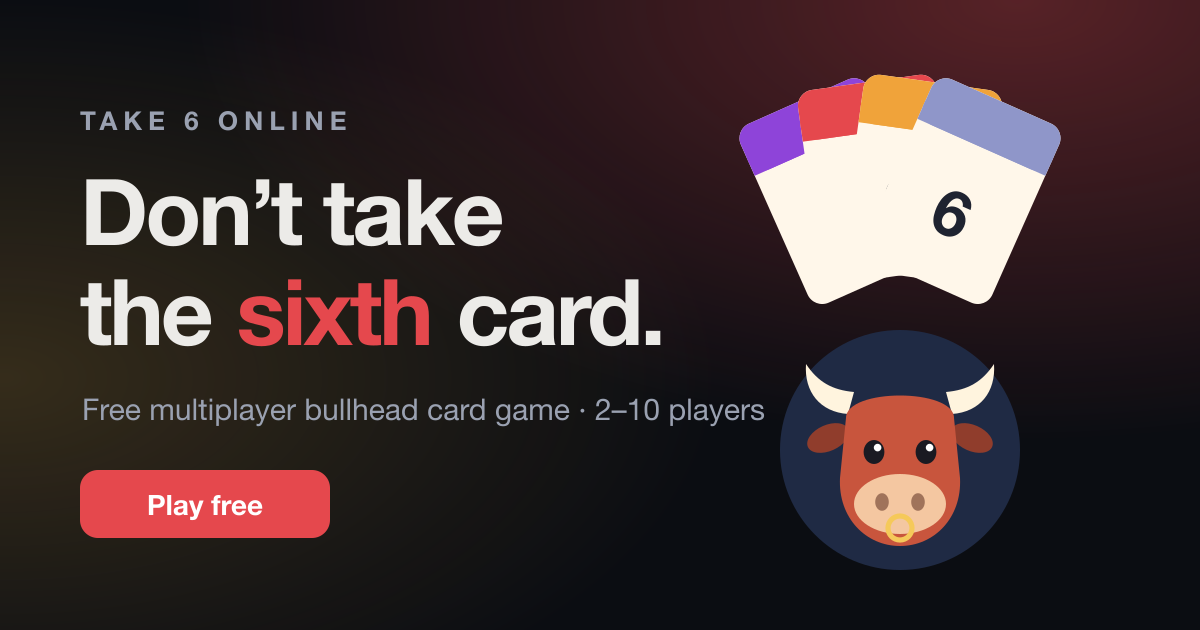
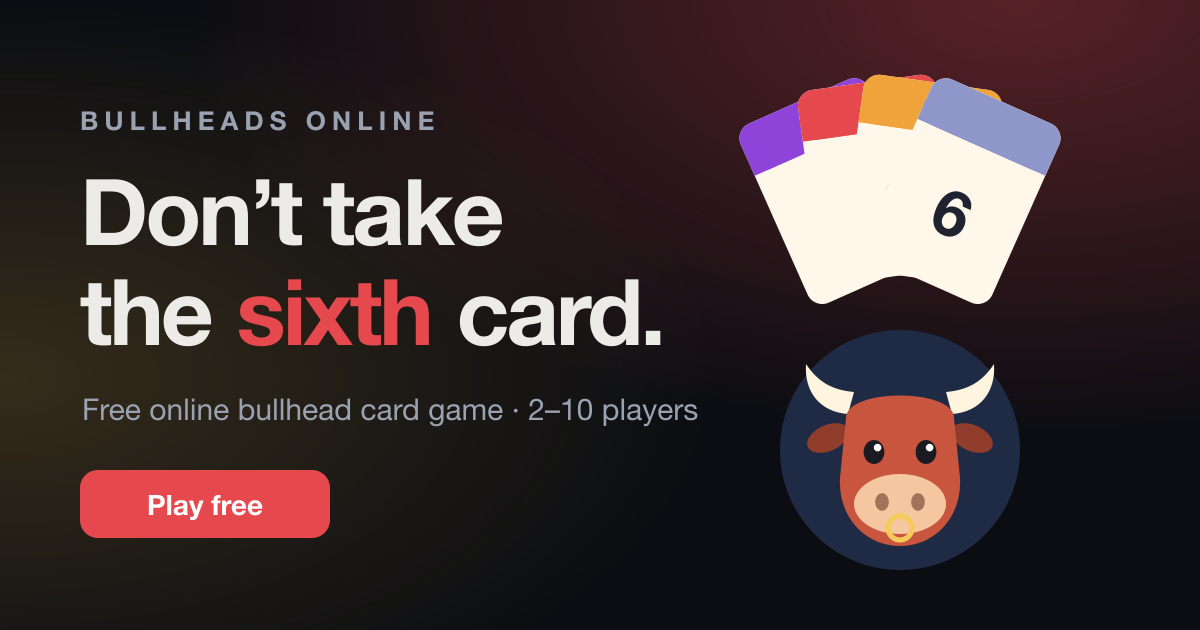
Rebrand to Bullheads Online and add SEO metadata

Changed region(s): [[0.1233, 0.6333, 0.6475, 0.6937], [0.0617, 0.1508, 0.37, 0.2111]]

diff --git a/apps/web/index.html b/apps/web/index.html
@@ -4,12 +4,29 @@
     <meta charset="UTF-8" />
     <meta name="viewport" content="width=device-width, initial-scale=1.0, viewport-fit=cover" />
     <meta name="theme-color" content="#0B0D12" />
-    <title>Take 6 Online — play the bullhead card game free</title>
-    <meta name="description" content="Play Take 6 online with friends or smart bots. 2–10 players, no download, free in your browser." />
-    <meta property="og:title" content="Take 6 Online" />
-    <meta property="og:description" content="Don’t take the sixth card. Free multiplayer bullhead card game for 2–10 players." />
+    <title>Bullheads Online — Free Bullhead Card Game (6 nimmt! Rules) | Play with Friends</title>
+    <meta name="description" content="Play Bullheads free online: the classic 104-card bullhead game with the same rules as 6 nimmt! and Take 5. 2–10 players, private rooms with friends or smart bots. No download, no sign-up." />
+    <link rel="canonical" href="https://bullheadsonline.com/" />
+    <meta property="og:site_name" content="Bullheads Online" />
+    <meta property="og:title" content="Bullheads Online — the free bullhead card game" />
+    <meta property="og:description" content="Don’t take the sixth card. Free multiplayer card game for 2–10 players — play with friends or bots in your browser." />
     <meta property="og:type" content="website" />
-    <meta property="og:image" content="/og.png" />
+    <meta property="og:url" content="https://bullheadsonline.com/" />
+    <meta property="og:image" content="https://bullheadsonline.com/og.png" />
+    <script type="application/ld+json">
+      {
+        "@context": "https://schema.org",
+        "@type": "VideoGame",
+        "name": "Bullheads Online",
+        "url": "https://bullheadsonline.com/",
+        "description": "Free online multiplayer bullhead card game for 2–10 players, played with the classic 104-card rules known from 6 nimmt! and Take 5.",
+        "genre": ["Card game", "Party game", "Multiplayer"],
+        "gamePlatform": ["Web browser", "Mobile web"],
+        "applicationCategory": "Game",
+        "numberOfPlayers": { "@type": "QuantitativeValue", "minValue": 2, "maxValue": 10 },
+        "offers": { "@type": "Offer", "price": "0", "priceCurrency": "USD" }
+      }
+    </script>
     <meta name="twitter:card" content="summary_large_image" />
     <link rel="icon" href="/favicon.svg" type="image/svg+xml" />
     <link rel="preconnect" href="https://fonts.googleapis.com" />

diff --git a/apps/web/src/pages/Rules.tsx b/apps/web/src/pages/Rules.tsx
@@ -9,7 +9,7 @@ export function Rules() {
   return (
     <div className="mx-auto max-w-3xl px-4 py-12">
       <div className="eyebrow">How to play</div>
-      <h1 className="mt-1 font-display text-4xl font-extrabold tracking-tight">The rules in two minutes</h1>
+      <h1 className="mt-1 font-display text-4xl font-extrabold tracking-tight">Bullheads rules in two minutes</h1>
       <p className="mt-3 text-lg text-fog">Collect as few bullheads as possible. That’s it — the rest is timing and nerve.</p>
 
       <Section title="The deck">
@@ -57,6 +57,30 @@ export function Rules() {
 
       <Section title="Online etiquette">
         <p>Each turn has a timer set by the host. If you run out of time or drop connection, a cautious bot plays for you until you’re back.</p>
+      </Section>
+
+      <Section title="FAQ">
+        <div className="space-y-4">
+          <div>
+            <h3 className="font-semibold text-white">Is this the same as 6 nimmt! or Take 5?</h3>
+            <p className="mt-1">
+              Bullheads uses the same classic 104-card rules, so if you know 6 nimmt!, Take 5 or Take 6, you already know how to play.
+              Bullheads is an independent game and is not affiliated with or endorsed by AMIGO Spiele, who publish 6 nimmt!®.
+            </p>
+          </div>
+          <div>
+            <h3 className="font-semibold text-white">Is it free?</h3>
+            <p className="mt-1">Yes. Everything that affects play is free. The optional Plus upgrade removes ads and adds cosmetic card styles and characters.</p>
+          </div>
+          <div>
+            <h3 className="font-semibold text-white">How many people can play?</h3>
+            <p className="mt-1">2 to 10 players per table. Empty seats can be filled with bots, and you can play solo against bots any time.</p>
+          </div>
+          <div>
+            <h3 className="font-semibold text-white">Do I need to download anything?</h3>
+            <p className="mt-1">No. It runs in any modern browser on phones, tablets and computers. Share a 4-letter room code and friends can join instantly.</p>
+          </div>
+        </div>
       </Section>
 
       <div className="mt-10">

diff --git a/apps/web/src/components/Footer.tsx b/apps/web/src/components/Footer.tsx
@@ -5,7 +5,10 @@ export function Footer() {
   return (
     <footer className="mt-24 border-t border-white/6">
       <div className="mx-auto flex max-w-6xl flex-col gap-4 px-4 py-8 text-sm text-fog sm:flex-row sm:items-center sm:justify-between">
-        <p>© {new Date().getFullYear()} {BRAND.company}. Fan-made online adaptation of the bullhead card game.</p>
+        <p className="max-w-xl">
+          © {new Date().getFullYear()} {BRAND.company}. An independent game, not affiliated with or endorsed by AMIGO Spiele.
+          6 nimmt!® is a trademark of AMIGO Spiele.
+        </p>
         <nav className="flex flex-wrap gap-x-5 gap-y-2">
           <Link to="/rules" className="hover:text-white">Rules</Link>
           <Link to="/plus" className="hover:text-white">Plus</Link>

diff --git a/apps/web/src/brand.ts b/apps/web/src/brand.ts
@@ -1,12 +1,10 @@
-/**
- * Product naming lives here so a rebrand is a one-line change.
- * Note: "Take 6!" / "6 nimmt!" are trademarks of AMIGO Spiele — see README before launching commercially.
- */
+/** Product naming and domain live here so a rebrand is a one-line change. */
 export const BRAND = {
-  name: 'Take 6 Online',
-  short: 'Take 6',
-  plus: 'Take 6 Plus',
-  tagline: 'Don’t take the sixth card.',
-  supportEmail: 'support@example.com',
-  company: 'Your Studio Name',
+  name: 'Bullheads Online',
+  short: 'Bullheads',
+  plus: 'Bullheads Plus',
+  tagline: 'Don\u2019t take the sixth card.',
+  domain: 'bullheadsonline.com',
+  supportEmail: 'hello@bullheadsonline.com',
+  company: 'Bullheads Online',
 };

diff --git a/apps/web/src/pages/Home.tsx b/apps/web/src/pages/Home.tsx
@@ -74,7 +74,7 @@ export function Home() {
             Don’t take the <span className="text-bull">sixth</span> card.
           </h1>
           <p className="mt-5 max-w-md text-lg leading-relaxed text-fog">
-            The quick, sneaky bullhead card game. Invite friends to a private table, drop into a public match, or practise against sharp bots.
+            The quick, sneaky bullhead card game — the same 104-card rules as 6 nimmt! and Take 5. Invite friends to a private table, drop into a public match, or practise against sharp bots.
           </p>
 
           <div className="panel mt-8 max-w-md p-4 sm:p-5">

diff --git a/apps/web/src/game/Lobby.tsx b/apps/web/src/game/Lobby.tsx
@@ -27,7 +27,7 @@ export function Lobby({ snapshot, clockOffset }: { snapshot: RoomSnapshot; clock
       /* clipboard blocked */
     }
   };
-  const share = () => navigator.share?.({ title: 'Join my Take 6 table', text: `Room code ${room.code}`, url: link }).catch(() => {});
+  const share = () => navigator.share?.({ title: 'Join my Bullheads table', text: `Room code ${room.code}`, url: link }).catch(() => {});
   const set = (patch: Partial<RoomSettings>) => socket?.emit('room:settings', patch);
   const start = () =>
     socket?.emit('game:start', (res) => setStartError(res.ok ? null : res.error));

diff --git a/apps/server/src/index.ts b/apps/server/src/index.ts
@@ -28,7 +28,7 @@ app.use(stripeWebhook(rooms));
 app.use(express.json({ limit: '32kb' }));
 app.use(apiRoutes(rooms));
 app.use(billingRoutes(rooms));
-app.get('/', (_req, res) => res.type('text').send('Take 6 Online game server'));
+app.get('/', (_req, res) => res.type('text').send('Bullheads Online game server'));
 
 app.use((error: Error, _req: express.Request, res: express.Response, _next: express.NextFunction) => {
   console.error('[http]', error);

diff --git a/apps/web/src/art/icons.tsx b/apps/web/src/art/icons.tsx
@@ -1,7 +1,7 @@
 import type { SVGProps } from 'react';
 
 /**
- * Take 6 icon set — 24px grid, 1.8px strokes, rounded joins.
+ * Bullheads icon set — 24px grid, 1.8px strokes, rounded joins.
  * Game-specific glyphs (bullhead, row-take, low-card) are drawn to match the generic UI ones.
  */
 type IconProps = SVGProps<SVGSVGElement> & { size?: number };

diff --git a/README.md b/README.md
@@ -1,8 +1,8 @@
-# Take 6 Online
+# Bullheads Online
 
 A free, ad-supported multiplayer version of the bullhead card game (2–10 players), with a one-time **Plus** upgrade. English UI, mobile-first, playable in the browser.
 
-> ⚠ **Before launching commercially:** "Take 6!" and "6 nimmt!" are trademarks of AMIGO Spiele. Game rules can't be owned, but names and trade dress can. Rename the product in [`apps/web/src/brand.ts`](apps/web/src/brand.ts) (plus the `<title>` in `apps/web/index.html`) before you run ads or take payments. See [docs/LAUNCH.md](docs/LAUNCH.md#0-pick-a-name).
+Live at **bullheadsonline.com**. The game uses the classic 104-card rules known from 6 nimmt!®, but it is an independent product: never use AMIGO's names, logo or card art as branding. The brand lives in [`apps/web/src/brand.ts`](apps/web/src/brand.ts).
 
 ## What's inside
 

diff --git a/docs/LAUNCH.md b/docs/LAUNCH.md
@@ -91,7 +91,7 @@ In **DNS → Records**:
 
 ## 6. Stripe (Plus)
 
-1. **Product catalogue → Add product**: "Take 6 Plus" (or your brand), with a **one-time** price, e.g. US$4.99. Copy the `price_…` ID into `STRIPE_PRICE_PLUS`.
+1. **Product catalogue → Add product**: "Bullheads Plus", with a **one-time** price, e.g. US$4.99. Copy the `price_…` ID into `STRIPE_PRICE_PLUS`.
 2. **Developers → API keys**: copy the secret key into `STRIPE_SECRET_KEY`.
 3. **Developers → Webhooks → Add endpoint**: `https://api.example.com/api/stripe/webhook` with the events
    `checkout.session.completed`, `checkout.session.async_payment_succeeded`, `charge.refunded`.
